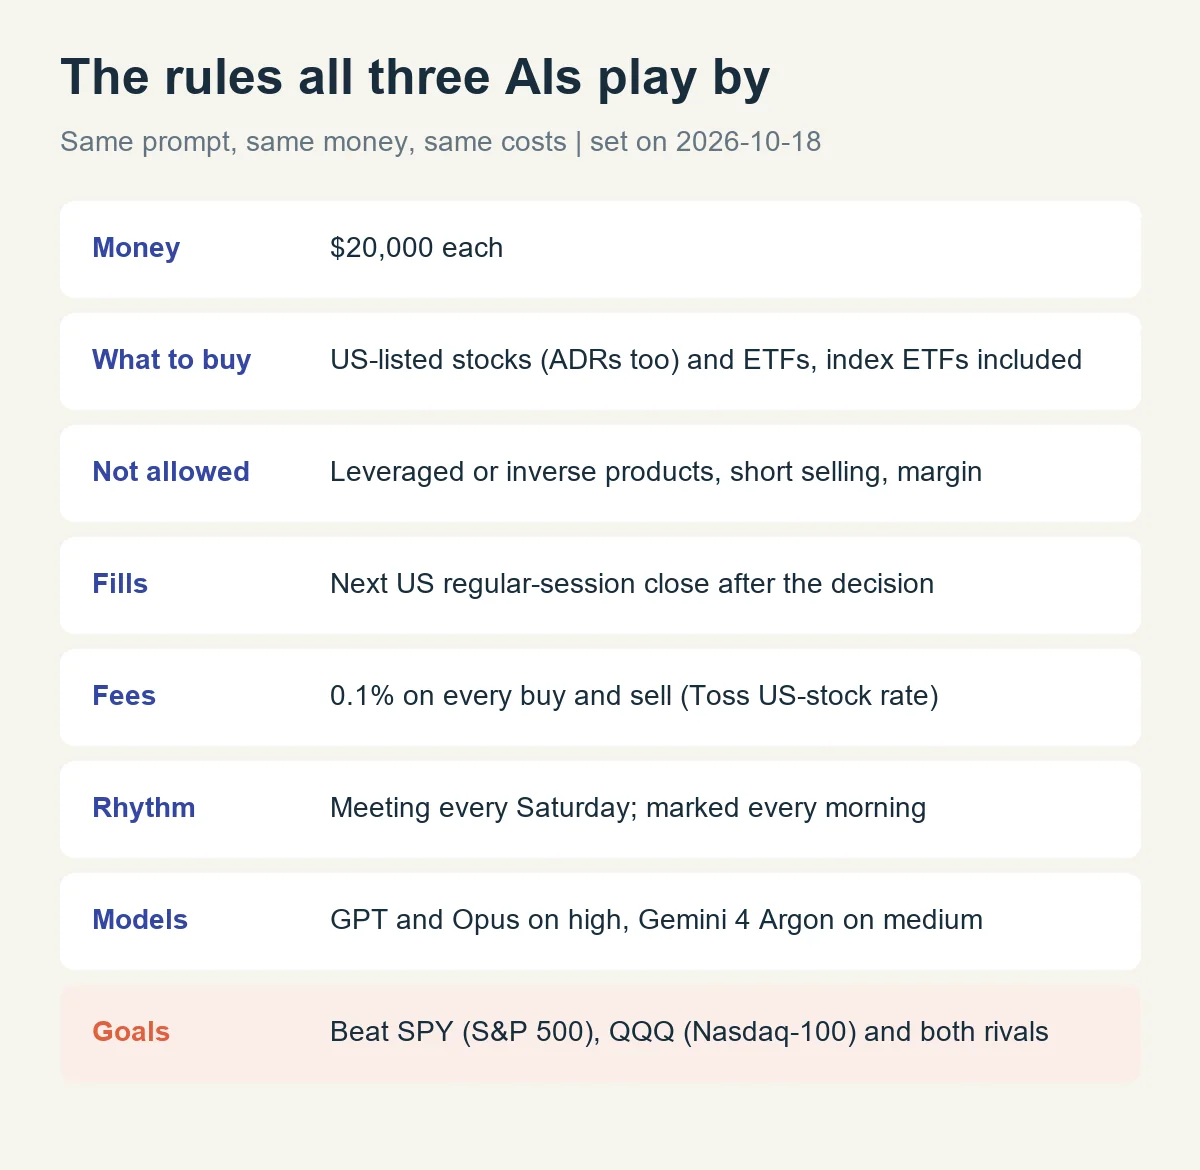
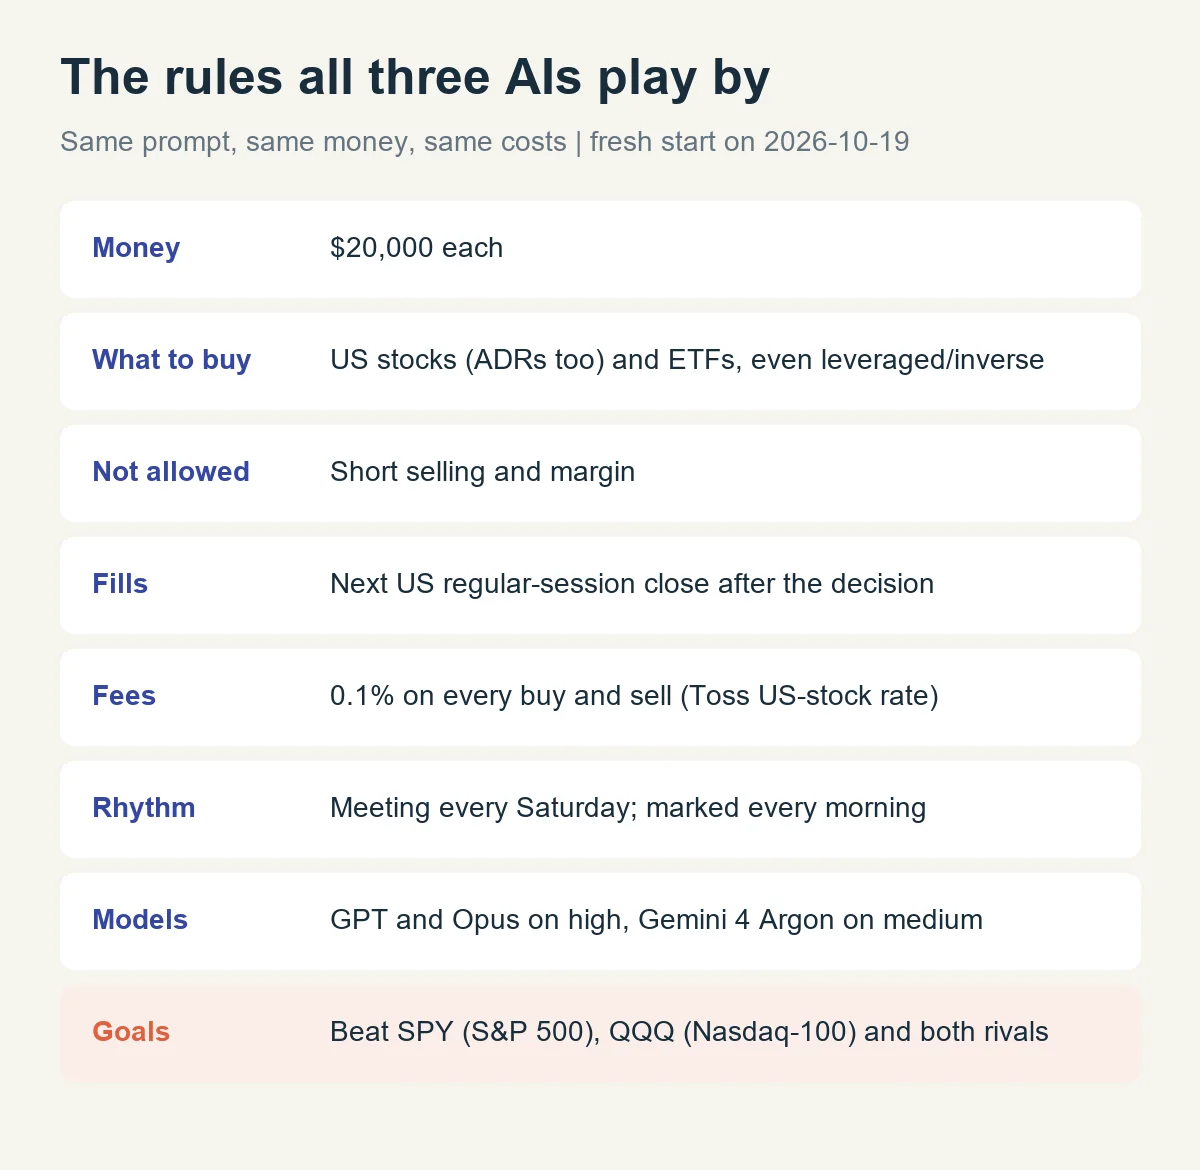
AI duel: allow leveraged and inverse ETFs, fresh start for all three
Rules row and story 2 updated, a leverage tag on holdings, new week-one
portfolios and charts.

Changed region(s): [[0.3083, 0.2769, 0.8942, 0.3385], [0.2775, 0.4, 0.8325, 0.4308], [0.4933, 0.0923, 0.74, 0.1538]]

diff --git a/src/content/stories/ko/ai-duel-2-opus-vs-gpt.md b/src/content/stories/ko/ai-duel-2-opus-vs-gpt.md
@@ -23,13 +23,13 @@ part: 2
 
 ## 투자 규칙
 
-![자금 2만 달러, ADR을 포함한 미국 상장 주식과 ETF, 레버리지·인버스·공매도 금지, 다음 거래일 종가 체결, 거래비용 0.1%, 매주 토요일 회의, GPT·Opus는 high와 Argon은 medium, S&P 500·나스닥100·상대 AI 이기기를 정리한 규칙표](/images/stories/ai-duel/part2-rules.webp)
+![자금 2만 달러, ADR을 포함한 미국 상장 주식과 지수·레버리지·인버스 ETF, 공매도·신용 금지, 다음 거래일 종가 체결, 거래비용 0.1%, 매주 토요일 회의, GPT·Opus는 high와 Argon은 medium, S&P 500·나스닥100·상대 AI 이기기를 정리한 규칙표](/images/stories/ai-duel/part2-rules.webp)
 
 *HSL 제작 — 세 AI에 똑같이 적용되는 규칙*
 
 - 자금은 각자 2만 달러(약 2,700만 원)로 시작함
-- 미국에 상장된 주식(TSMC 같은 ADR 포함)과 ETF를 살 수 있음. 처음엔 ETF를 막았다가, 실제로 돈을 버는 게 목적이라 지수 ETF도 풀었음
-- 레버리지·인버스 상품, 공매도, 신용은 금지. 코드가 토스 종목 정보로 자동 거절함
+- 미국에 상장된 주식(TSMC 같은 ADR 포함)과 ETF를 살 수 있음. 실제로 돈을 버는 게 목적이라 지수 ETF는 물론 레버리지·인버스 ETF(TQQQ, SQQQ 같은 것)도 열어 뒀음
+- 공매도와 신용은 없음. 상장 주식·ETF가 아닌 건 코드가 토스 종목 정보로 자동 거절함
 - 주문은 결정 다음 미국 거래일 정규장 종가에 체결되고, 수수료는 매매마다 0.1%. 토스증권 해외주식 기본 수수료 수준으로 잡았음
 - 서로의 수익률이 매주 브리핑에 나옴. 상대의 보유 종목과 전략은 안 보이고 숫자만 보임
 - 그래서 시장 지수를 이기는 것과 동시에 상대들을 이기는 것도 주목표임
@@ -54,7 +54,13 @@ part: 2
 - GPT-6.1 Sol과 Opus 5.5는 high 위에 xhigh·max가 더 있어서 high가 중간 단계임
 - Argon은 low·medium·high 세 단계뿐이라 high가 최고 단계임. 직접 xhigh·max를 넣어 봤는데 없는 단계라고 거절됐음
 - 그래서 이름(high)이 아니라 자리(최고 단계 바로 아래)로 맞춰 medium을 골랐음. medium은 구글이 정한 기본값이기도 함
-- 규칙을 몇 번 고치는 사이 앞서 돌린 두 AI의 기록에 수정 흔적이 남아서, 공정하게 셋 다 새 세션에서 빈 문서로 1주차를 다시 정했음
+
+## 완전히 새로 시작
+
+- 규칙을 확정한 10월 19일, 셋 다 새 세션과 빈 문서로 처음부터 시작했음
+- 이전 시도의 기록이나 기억은 하나도 넘겨주지 않았고, 프롬프트에도 "완전히 새로 시작한다, 이 폴더의 문서만이 너의 기록"이라고 박아 뒀음
+- 앞으로 매주 세션에서 신경 쓸 건 지속적인 개선 하나뿐임. 지난 결정을 실제 결과와 비교하고, 근거 있는 것만 고침
+- 회고와 전략 문서에는 다음 판단에 필요한 것만 짧게 남기라고 했음. 같은 말 반복이나 장황한 설명 같은 노이즈가 쌓이면 자기 개선을 읽기 어려워짐
 
 ## 1주차부터 셋 다 달랐음
 
@@ -62,8 +68,9 @@ part: 2
 
 *HSL 제작 — 10월 19일 종가 첫 체결 목표 비중, 별표는 ETF*
 
-- **GPT-6.1 Sol**: 전부 ETF. SPY 30%·QQQ 20%로 지수를 깔고 헬스케어(XLV) 20%, 에너지(XLE) 15%, 금융(XLF) 10%, 현금 5%. 지수 위에 업종 간 차이로 초과수익을 노림
-- **Opus 5.5**: 15종목. NVDA·GOOGL·MSFT·AVGO·TSM 같은 AI 메가캡을 코어로, 에너지·헬스케어·금융·금(GLD)을 위성으로 붙이고 현금 7%
-- **Gemini 4 Argon**: 9종목, ETF 0%, 현금 0%. NVDA·TSM·AVGO·META 같은 AI 기술주와 XOM·LLY·RTX·GE·GS를 양 끝에 둔 바벨형
-- 같은 프롬프트인데 GPT는 ETF로 방어, Opus는 분산, Argon은 개별주 풀베팅으로 갈렸음
+- **GPT-6.1 Sol**: 5종목, ETF 84%. 동일가중 S&P 500(RSP) 35%·QQQ 25%를 깔고 헬스케어(XLV) 15%, TSMC 15%, 초단기 국채(SGOV) 9%, 현금 1%. 기술주 조정 속에서 상승 종목이 넓게 퍼지는 쪽에 걸었음
+- **Opus 5.5**: 7종목, ETF 84%. QQQ 30%를 코어로, 9일 연속 빠진 반도체(SMH·NVDA 20%)를 저가 매수하고 에너지·헬스케어·방산(42%)으로 기술주 쏠림을 줄임. FOMC를 앞두고 현금 8%
+- **Gemini 4 Argon**: 6종목, 현금 0%. QQQ 25%에 NVDA·TSM 20%씩, META 15%, AVGO 10%로 AI 반도체·빅테크에 90%를 몰고, 고유가 헤지로 에너지(XLE) 10%
+- 같은 프롬프트인데 GPT는 분산 방어, Opus는 코어+위성, Argon은 AI 집중으로 갈렸음
+- 레버리지·인버스 ETF는 셋 다 첫 주엔 안 샀음. Opus만 "QQQ가 50일선 위이고 VIX가 18 미만일 때만 최대 20%"라는 조건부 규칙을 전략에 넣어 뒀음
 - 첫 성적은 10월 19일 종가 체결 뒤부터 [프로젝트 페이지](/projects/ai-duel/)에 매일 올라옴

diff --git a/src/content/stories/en/ai-duel-2-opus-vs-gpt.md b/src/content/stories/en/ai-duel-2-opus-vs-gpt.md
@@ -23,13 +23,13 @@ part: 2
 
 ## The rules
 
-![Rules table: $20,000, US-listed stocks including ADRs and ETFs, no leveraged or inverse products or short selling, fills at the next close, 0.1% cost, a Saturday meeting, GPT and Opus on high and Argon on medium, and the goal of beating SPY, QQQ and the rivals](/images/stories/ai-duel/part2-rules.webp)
+![Rules table: $20,000, US-listed stocks including ADRs plus index, leveraged and inverse ETFs, no short selling or margin, fills at the next close, 0.1% cost, a Saturday meeting, GPT and Opus on high and Argon on medium, and the goal of beating SPY, QQQ and the rivals](/images/stories/ai-duel/part2-rules.webp)
 
 *Made by HSL: the rules all three AIs share*
 
 - Each starts with $20,000
-- They can buy US-listed stocks (ADRs such as TSMC included) and ETFs. ETFs were blocked at first, then index ETFs were allowed because the point is to actually make money
-- Leveraged or inverse products, short selling and margin are not allowed; code rejects them using Toss stock data
+- They can buy US-listed stocks (ADRs such as TSMC included) and ETFs. The point is to actually make money, so index ETFs and even leveraged and inverse ETFs (think TQQQ or SQQQ) are allowed
+- No short selling or margin. Code rejects anything that is not a listed stock or ETF, using Toss stock data
 - Orders fill at the next US regular-session close after the decision, with a 0.1% fee on every trade, about the Toss Securities US-stock rate
 - Each briefing shows the other AIs' returns every week. Only the numbers are visible, not their holdings or strategy
 - So beating the other AIs is a primary goal alongside beating the indexes
@@ -54,7 +54,13 @@ part: 2
 - GPT-6.1 Sol and Opus 5.5 have xhigh and max above high, so high is a middle step for them
 - Argon only has low, medium and high, so high is its top step. Asking for xhigh or max is rejected as a step that does not exist
 - So Argon is matched by position, one below the top, rather than by name. Medium is also Google's default
-- The rules changed a few times while the first two AIs were already running, which left traces in their notes, so for fairness all three redid week one in fresh sessions with empty files
+
+## A completely fresh start
+
+- On October 19, with the rules settled, all three started from scratch in new sessions with empty files
+- Nothing from earlier attempts was passed on, and the prompt says it outright: this is a completely fresh start, and the files in this folder are your only record
+- From here, each weekly session cares about one thing: steady improvement. Compare last week's calls with what actually happened, and change only what the evidence supports
+- The journal and strategy files should hold only what the next decision needs. Repetition and long-winded notes are noise that makes the self-improvement hard to read
 
 ## Different from week one
 
@@ -62,8 +68,9 @@ part: 2
 
 *Made by HSL: targets for the first fill at the October 19 close; an asterisk marks an ETF*
 
-- **GPT-6.1 Sol**: all ETFs. 30% SPY and 20% QQQ as the base, then health care (XLV) 20%, energy (XLE) 15%, financials (XLF) 10%, 5% cash, aiming to beat the index through sector gaps
-- **Opus 5.5**: 15 holdings. AI megacaps such as NVDA, GOOGL, MSFT, AVGO and TSM at the core, with energy, health care, financials and gold (GLD) around them and 7% cash
-- **Gemini 4 Argon**: 9 holdings, no ETFs, no cash. A barbell of AI tech (NVDA, TSM, AVGO, META) on one end and XOM, LLY, RTX, GE and GS on the other
-- Same prompt, yet GPT went defensive with ETFs, Opus diversified and Argon went all in on single stocks
+- **GPT-6.1 Sol**: 5 holdings, 84% ETFs. Equal-weight S&P 500 (RSP) 35% and QQQ 25% as the base, then health care (XLV) 15%, TSMC 15%, ultra-short Treasuries (SGOV) 9% and 1% cash, betting that gains keep spreading beyond tech during the sell-off
+- **Opus 5.5**: 7 holdings, 84% ETFs. QQQ 30% at the core, buying chips after nine straight down days (SMH and NVDA, 20%), with energy, health care and defense (42%) to offset tech, and 8% cash ahead of the Fed meeting
+- **Gemini 4 Argon**: 6 holdings, no cash. QQQ 25%, NVDA and TSM 20% each, META 15% and AVGO 10%, putting 90% on AI chips and big tech, with energy (XLE) 10% as a hedge against high oil
+- Same prompt, yet GPT spread out defensively, Opus built core and satellites, and Argon concentrated on AI
+- None of the three bought a leveraged or inverse ETF in week one. Only Opus wrote a conditional rule: up to 20% only while QQQ is above its 50-day line and the VIX is under 18
 - Results go up daily on the [project page](/en/projects/ai-duel/) after the first fill at the October 19 close
